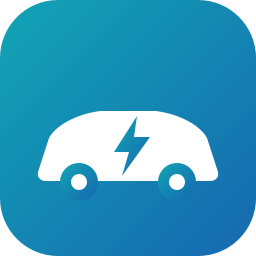
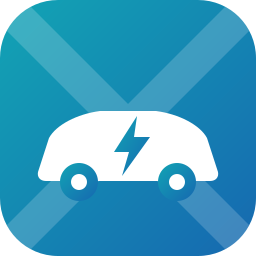
Brand images: put the project's initial through the tile
Plain was a fair description. A translucent diagonal cross now runs through the tile, behind
the car so the car keeps its edge, with the arms reading in the corners.

It is deliberately a **plain** X, not XPENG's angular mark: that logo is theirs and not mine
to redraw, while a cross is the project's own initial - Xpengtk starts with one - and says
the same thing without borrowing anything. `brand/README.md` now says so next to the files,
so the next reader does not have to guess whether it was meant to be the vendor's.

Changed region(s): [[0.0312, 0.0312, 0.9688, 0.4375], [0.6875, 0.6875, 0.9688, 0.9688], [0.0312, 0.6875, 0.3125, 0.9688]]

diff --git a/custom_components/xpeng/brand/README.md b/custom_components/xpeng/brand/README.md
@@ -6,8 +6,9 @@ custom integration, and those take precedence over anything in the central
 
 ## What this is, and what it is not
 
-The mark is **this project's own** - a car with a charge bolt cut out of it - not XPENG's
-logo. XPENG's mark is theirs, and there is nothing for us to use in the brands repository:
+The mark is **this project's own** - a car with a charge bolt cut out of it, and a
+diagonal cross laid through the tile. The cross is the project's initial ("Xpengtk"),
+**not** XPENG's angular mark: theirs is theirs, and this one is a plain X on purpose. XPENG's mark is theirs, and there is nothing for us to use in the brands repository:
 `custom_integrations/xpeng/icon.png` returns 404 (checked 2026-10-12), which is why an
 install shows Home Assistant's placeholder.
 
